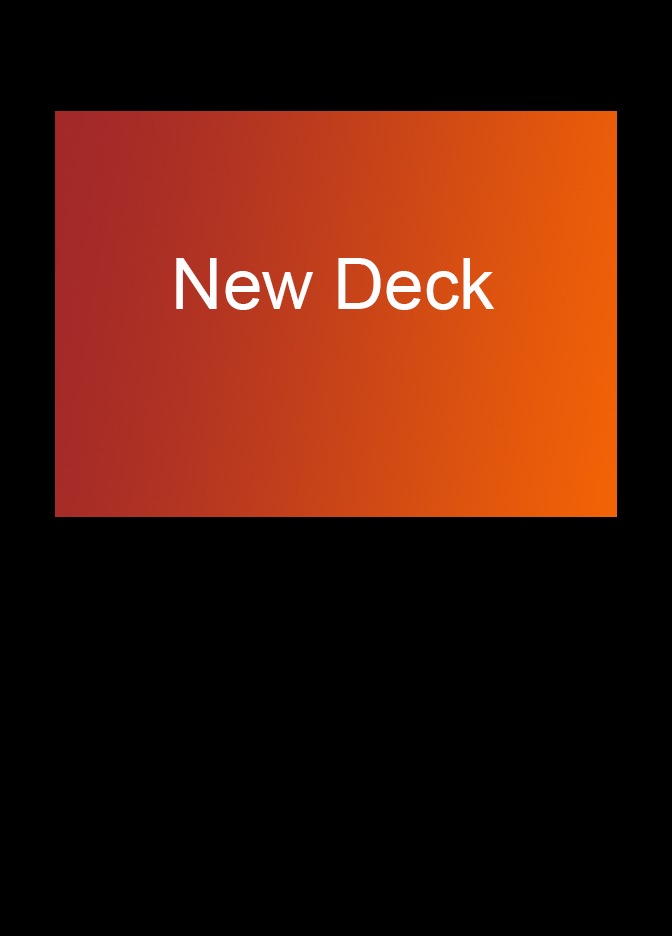
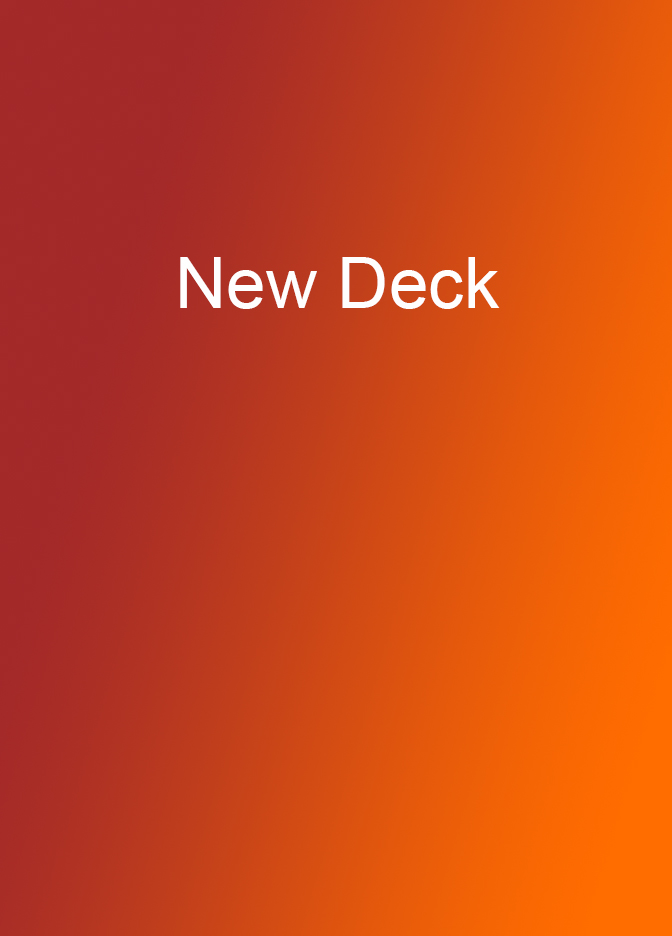
Minor formatting changes

diff --git a/DTC.web/src/pages/Deck/Deck.css b/DTC.web/src/pages/Deck/Deck.css
@@ -161,7 +161,7 @@
   border-radius: 12px;
   box-shadow: 0 4px 8px rgba(0, 0, 0, 0.5);
   overflow: hidden;
-  outline: 2px solid #000;
+  outline: 2px solid #1a1a1a;
   outline-offset: -1px;
 }
 
@@ -206,10 +206,6 @@
 
 .button-effect-hover:hover {
   background-color: rgba(230, 171, 171, 0.6) !important;
-}
-
-.deck-view-board {
-  margin-top: 30px;
 }
 
 @media (max-width: 650px) {
@@ -269,10 +265,16 @@
 
   .deck-view-text-reg {
     margin-left: 0;
+    margin-bottom: 5px;
+    margin-top: 5px;
   }
 
   .deck-view-editors text {
     font-size: 14px;
+  }
+
+  .deck-view-stats {
+    margin-bottom: 20px;
   }
 
   .edit-button {
@@ -291,5 +293,17 @@
     font-size: 25px;
     margin-top: 2px;
     margin-left: 15px;
+  }
+
+  .deck-view-tabs {
+    margin-bottom: 25px;
+  }
+
+  .deck-view-add-card {
+    margin-bottom: 25px;
+  }
+
+  .deck-view-board {
+    margin-top: 5px;
   }
 }

diff --git a/DTC.web/src/pages/Deck/Deck.jsx b/DTC.web/src/pages/Deck/Deck.jsx
@@ -404,7 +404,7 @@ export default function Deck() {
           </div>
         </div>
         <div className="deck-view-stats">
-          <text className="deck-view-text">
+          <text className="deck-view-text deck-view-author">
             <FontAwesomeIcon icon={faUser} className="deck-view-icon" />
             {deck.editors[0].username}
           </text>

diff --git a/DTC.web/src/assets/LoadDeck.jsx b/DTC.web/src/assets/LoadDeck.jsx
@@ -7,6 +7,12 @@ export const loadDeck = {
       email: "",
       userStatus: "",
     },
+    {
+      id: "",
+      username: "lukevuke",
+      email: "",
+      userStatus: "",
+    },
   ],
   name: "New Deck",
   format: "Format",

diff --git a/DTC.web/src/assets/DeckListing/DeckListing.css b/DTC.web/src/assets/DeckListing/DeckListing.css
@@ -20,7 +20,7 @@
   width: 132%;
   height: 250px;
   object-fit: cover;
-  object-position: -6cap -8cap;
+  object-position: -6cap -8.7cap;
 }
 
 .overlay {
